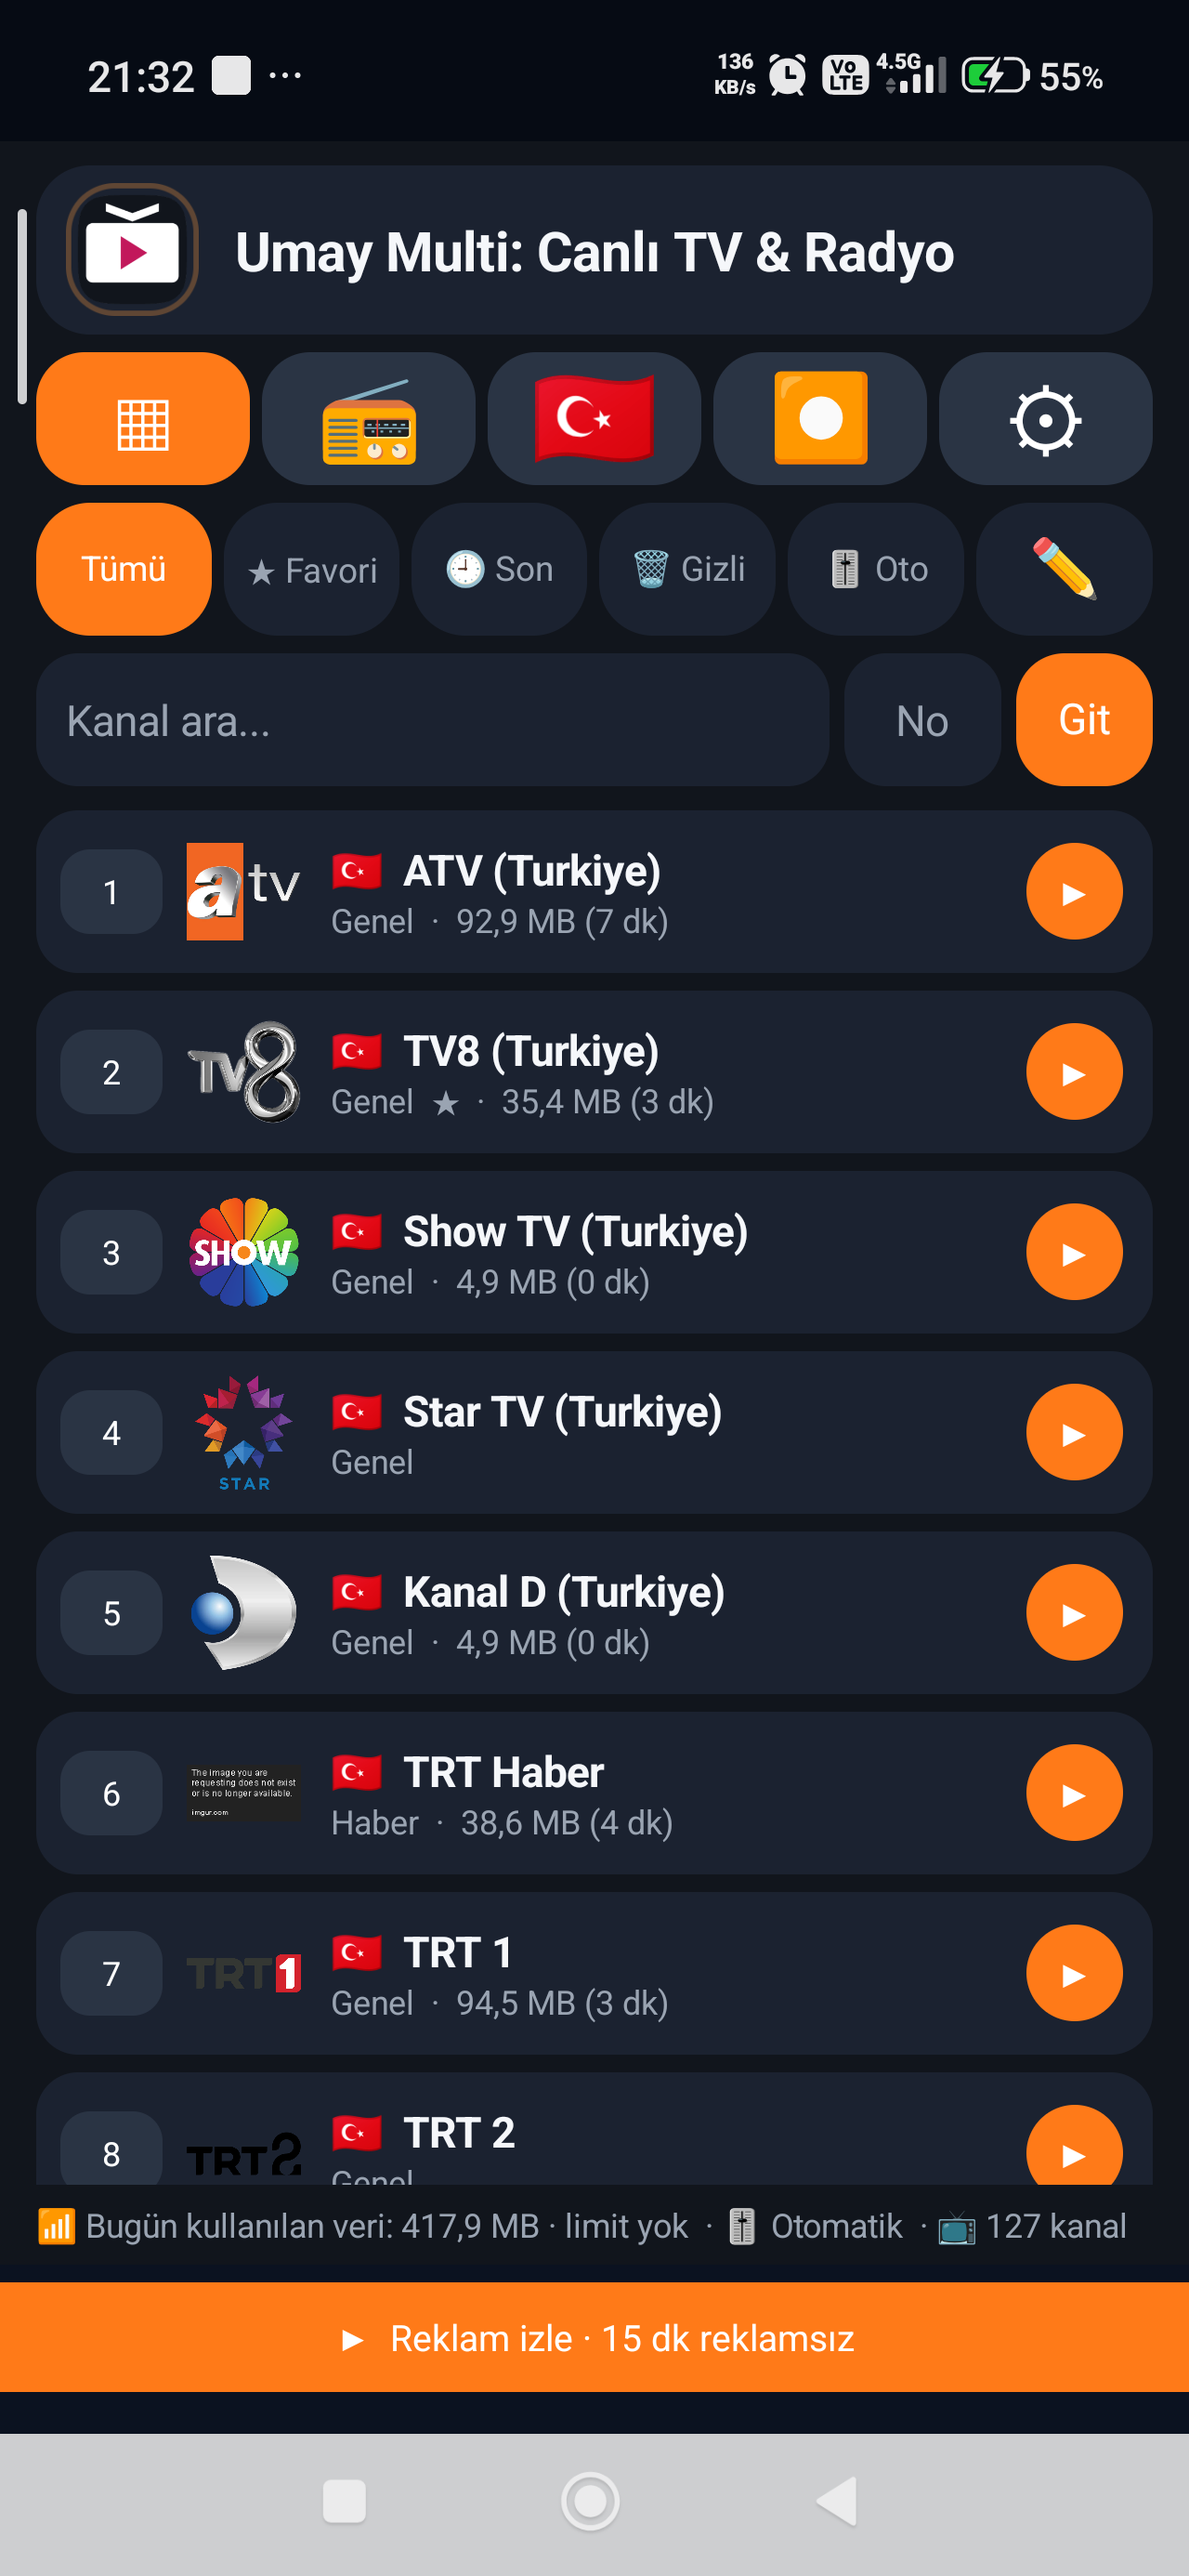
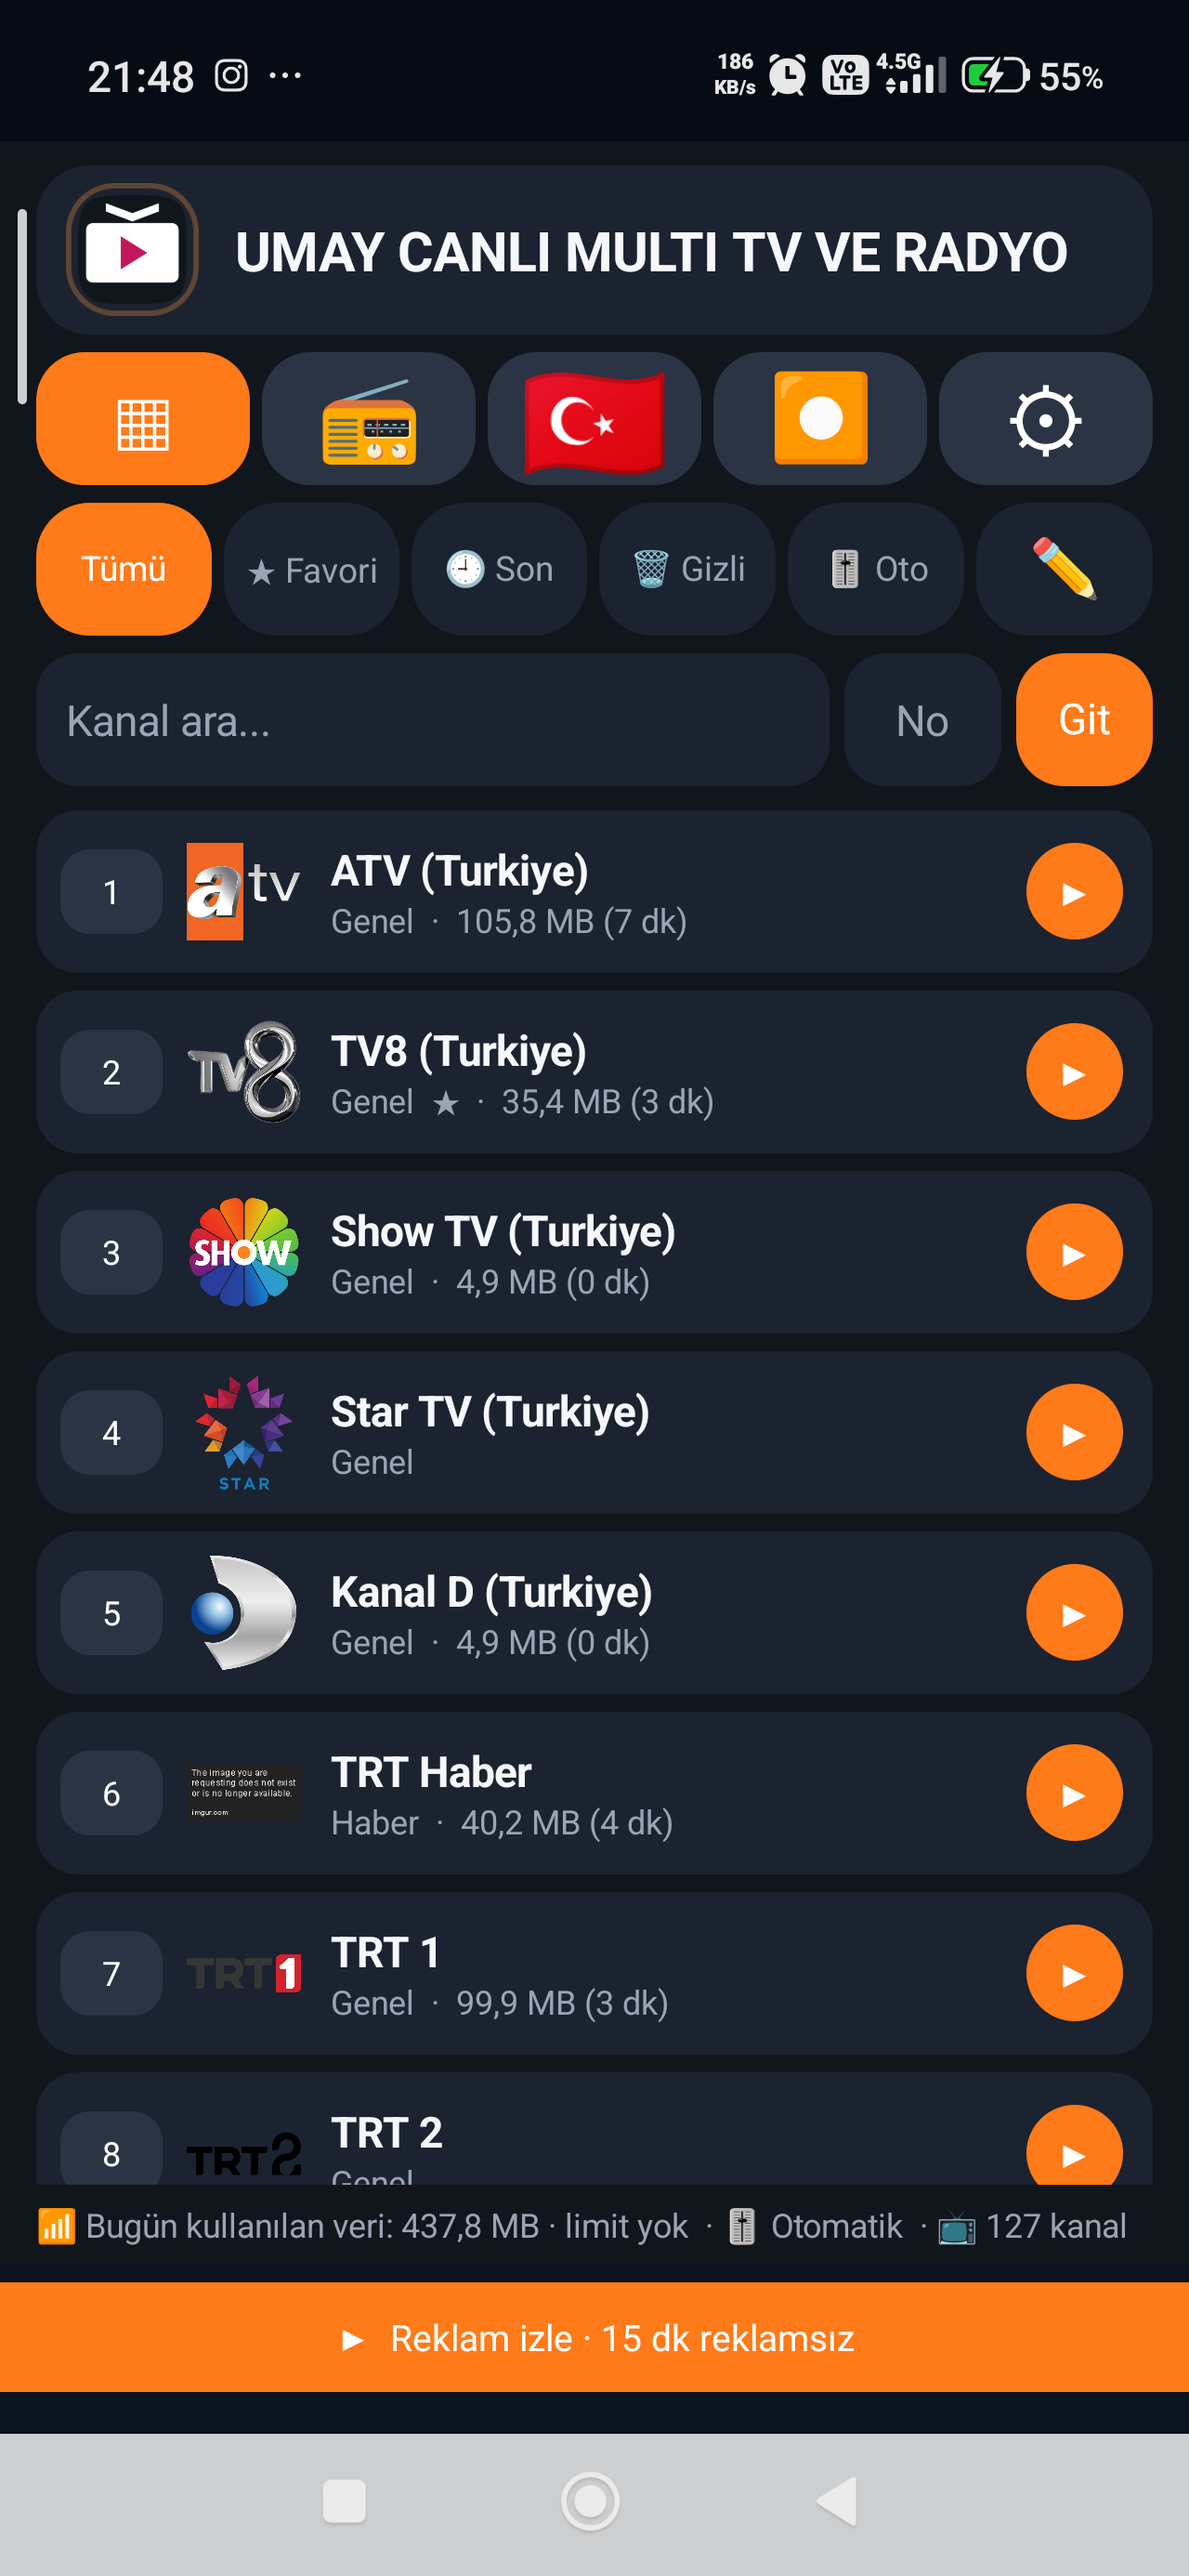
9.81: başlık UMAY CANLI MULTI TV VE RADYO, bayrak büyütüldü ve satırlardan kaldırıldı

diff --git a/site/worker.js b/site/worker.js
@@ -106,7 +106,7 @@ async function listLogs(env, url) {
 
 // ---------------------------------------------------------------- indirme sayfasi
 const APK_URL =
-  "https://github.com/gecekargosu/canli-tv-android/releases/download/v9.80/CanliTV-9.80.apk";
+  "https://github.com/gecekargosu/canli-tv-android/releases/download/v9.81/CanliTV-9.81.apk";
 
 function downloadPage() {
   return html(`<meta charset="utf-8"><meta name="viewport" content="width=device-width,initial-scale=1">

diff --git a/src/com/cengiz/canlitv/MainActivity.java b/src/com/cengiz/canlitv/MainActivity.java
@@ -154,8 +154,11 @@ public class MainActivity extends android.app.Activity {
         } catch (Throwable ignored) { }
 
         TextView title = new TextView(this);
-        title.setText("Umay Multi: Canlı TV & Radyo");
+        // 9.81: iki nokta kaldırıldı; başlık "UMAY CANLI MULTI TV VE RADYO".
+        // Yazı, kutuya sığan en büyük puntoya kendisi büyür (12–22sp).
+        title.setText("UMAY CANLI MULTI TV VE RADYO");
         title.setTextColor(TEXT);
+        // 18sp büyük harf: kart genişliğine tam sığıyor (autosize bu cihazda küçültmüyordu).
         title.setTextSize(18);
         title.setSingleLine(true);
         title.setEllipsize(android.text.TextUtils.TruncateAt.END);
@@ -202,7 +205,7 @@ public class MainActivity extends android.app.Activity {
         // --- ulke secimi: secilen ulkenin kanallari listeye gelir ---
         TextView countryBtn = pill(Countries.flag(shownCountry), SOFT);
         // Bayrak emojisi aynı punto ile daha küçük çiziliyor; diğer ikonlarla eşitlensin.
-        countryBtn.setTextSize(34);
+        countryBtn.setTextSize(40);
         countryBtn.setContentDescription("Ülke seç");
         countryBtn.setOnClickListener(new View.OnClickListener() {
             @Override public void onClick(View v) {
@@ -608,7 +611,7 @@ public class MainActivity extends android.app.Activity {
         }
         new AlertDialog.Builder(this)
                 .setTitle("Kanal " + no)
-                .setMessage(c.flag() + "  " + c.name + "\n" + c.group + "\n\nAçılsın mı?")
+                .setMessage(c.name + "\n" + c.group + "\n\nAçılsın mı?")
                 .setPositiveButton("Aç", new DialogInterface.OnClickListener() {
                     @Override public void onClick(DialogInterface d, int w) {
                         open(c);
@@ -901,7 +904,7 @@ public class MainActivity extends android.app.Activity {
         items.add("☑  Seçim / sıralama modu");
         items.add(hidden ? "➕  Listeye geri ekle" : "🗑  Listeden sil");
         new AlertDialog.Builder(this)
-                .setTitle("№" + c.no + "  " + c.flag() + "  " + c.name)
+                .setTitle("№" + c.no + "  " + c.name)
                 .setItems(items.toArray(new String[0]), new DialogInterface.OnClickListener() {
                     @Override public void onClick(DialogInterface d, int which) {
                         if (which == 0) { open(c); return; }
@@ -1231,7 +1234,7 @@ public class MainActivity extends android.app.Activity {
                     ViewGroup.LayoutParams.WRAP_CONTENT, 1f));
 
             TextView name = new TextView(MainActivity.this);
-            name.setText(c.flag() + "  " + c.name);
+            name.setText(c.name);
             name.setTextColor(TEXT);
             name.setTextSize(14);
             name.setTypeface(name.getTypeface(), android.graphics.Typeface.BOLD);

diff --git a/src/com/cengiz/canlitv/MultiActivity.java b/src/com/cengiz/canlitv/MultiActivity.java
@@ -783,7 +783,7 @@ public class MultiActivity extends android.app.Activity {
                             && !c.name.toLowerCase().contains(q)
                             && !c.group.toLowerCase().contains(q)
                             && !String.valueOf(c.no).equals(q)) continue;
-                    rows.add("№" + c.no + "  " + c.flag() + "  " + c.name + "   ·  " + c.group);
+                    rows.add("№" + c.no + "  " + c.name + "   ·  " + c.group);
                     idxx.add(i);
                 }
                 ad.notifyDataSetChanged();

diff --git a/src/com/cengiz/canlitv/PlayerActivity.java b/src/com/cengiz/canlitv/PlayerActivity.java
@@ -924,7 +924,7 @@ public class PlayerActivity extends android.app.Activity {
 
     private void show() {
         Channel c = list.get(index);
-        nameView.setText("№" + c.no + "  " + c.flag() + "  " + c.name);
+        nameView.setText("№" + c.no + "  " + c.name);
         counter.setText((index + 1) + "/" + list.size());
         favButton.setTextColor(Prefs.favs(this).contains(c.url) ? Color.parseColor("#FFC107") : MUTED);
         updateQualityLabel();

diff --git a/docs/MASTER-PLUS-2026-11-25.md b/docs/MASTER-PLUS-2026-11-25.md
@@ -249,3 +249,21 @@ Sonraki iş: **MP-57** kaynak sağlık taraması + **MP-58** yedek adresler (kul
   app-ads.txt yayında ve doğru (`pub-7629051535337276`). Kodda eksik yok; dolmama
   uygulama/hesap düzeyinde (uygulama mağazada değil → sınırlı reklam sunumu).
 - Yuva boş kalmıyor: dolmadığında turuncu "Reklam izle · 15 dk reklamsız" şeridi görünüyor.
+
+---
+
+## 14. 9.81 oturumu — başlık, bayrak, reklamın ekranda kanıtı
+
+| ID | İş | Durum | Kanıt |
+|----|----|-------|-------|
+| MP-74 | Başlık **"UMAY CANLI MULTI TV VE RADYO"** (iki nokta kaldırıldı), 18sp büyük harf, kırpma yok | ✅ 9.81 | Ekran: tek satır tam |
+| MP-75 | Üst bardaki ülke bayrağı **40sp** — radyo ikonuyla aynı boy | ✅ 9.81 | Ekran |
+| MP-76 | Kanal satırlarındaki bayrak **kaldırıldı** (liste, oynatıcı başlığı, çoklu liste, kanal menüsü) | ✅ 9.81 | Ekran: bayrak yalnız ülke düğmesinde |
+| MP-77 | Banner'ın gerçekten ekranda olduğu **test reklamıyla** kanıtlandı: ana sayfa, tekil, 3'lü, radyo | ✅ 9.81 | 4 ekran görüntüsü; test reklamı görünür (468x60 / 320x50), yuva gezinme çubuğunun üstünde |
+
+### Reklam yuvası neden "görünmüyor" gibi duruyor?
+
+Yuva her ekranda ekranın en altında, veri şeridinin hemen altında duruyor. AdMob gerçek
+reklamı **NO_FILL** döndürdüğü için içinde turuncu "Reklam izle · 15 dk reklamsız" şeridi
+görünüyor. Test reklamı açıldığında aynı yerde gerçek banner çıktı (kanıt: `_build/testad-*.png`).
+Yani kod/yerleşim doğru; eksik olan tek şey Google'ın reklamı doldurması.

diff --git a/releases/v9.81/SURUM-NOTLARI.md b/releases/v9.81/SURUM-NOTLARI.md
@@ -1,0 +1,22 @@
+# UMAY Multi TV 9.81 (versionCode 90)
+
+Tarih: 25 Kasım 2026
+
+## Üst bar
+
+- Başlık: **"UMAY CANLI MULTI TV VE RADYO"** — iki nokta kaldırıldı, yazı büyütüldü (18sp,
+  kart genişliğine tam sığıyor, kırpma yok).
+- Ülke bayrağı ikonu büyütüldü (40sp) — radyo ikonuyla aynı boyda duruyor.
+
+## Kanal listesi
+
+- Kanal satırlarındaki ülke bayrağı **kaldırıldı** (her satırda bayrak vardı, kalabalık
+  yapıyordu). Bayrak artık yalnız üst bardaki ülke seçme düğmesinde.
+- Aynı temizlik tekil oynatıcı başlığında, çoklu kanal listesinde ve kanal menüsünde de yapıldı.
+
+## Reklam doğrulaması
+
+- Dört ekranda (ana sayfa, tekil oynatıcı, 3'lü, radyo) banner test reklamıyla görüldü;
+  yuva ekranın altında, gezinme çubuğunun üstünde ve tam görünür.
+- Gerçek reklamlar cihazda **NO_FILL** dönüyor (AdMob uygulama düzeyinde sınırlı sunum);
+  bu durumda yuvada turuncu "Reklam izle · 15 dk reklamsız" şeridi duruyor.
